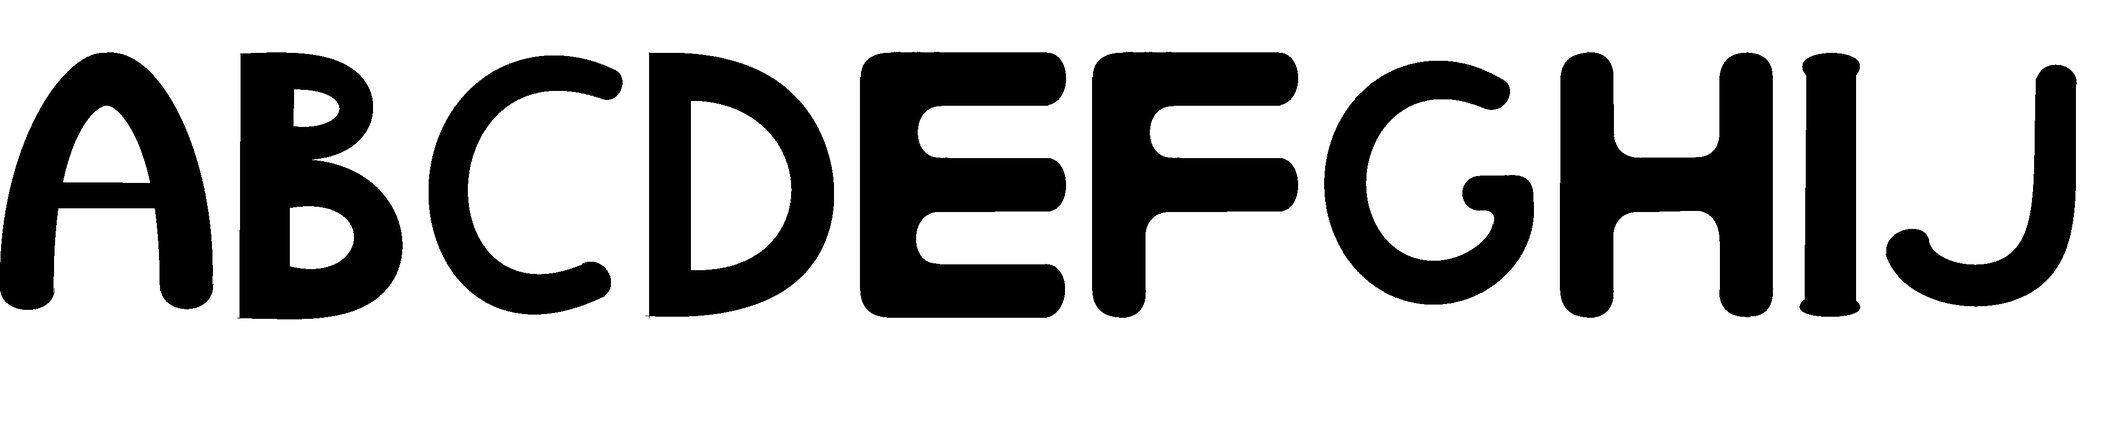
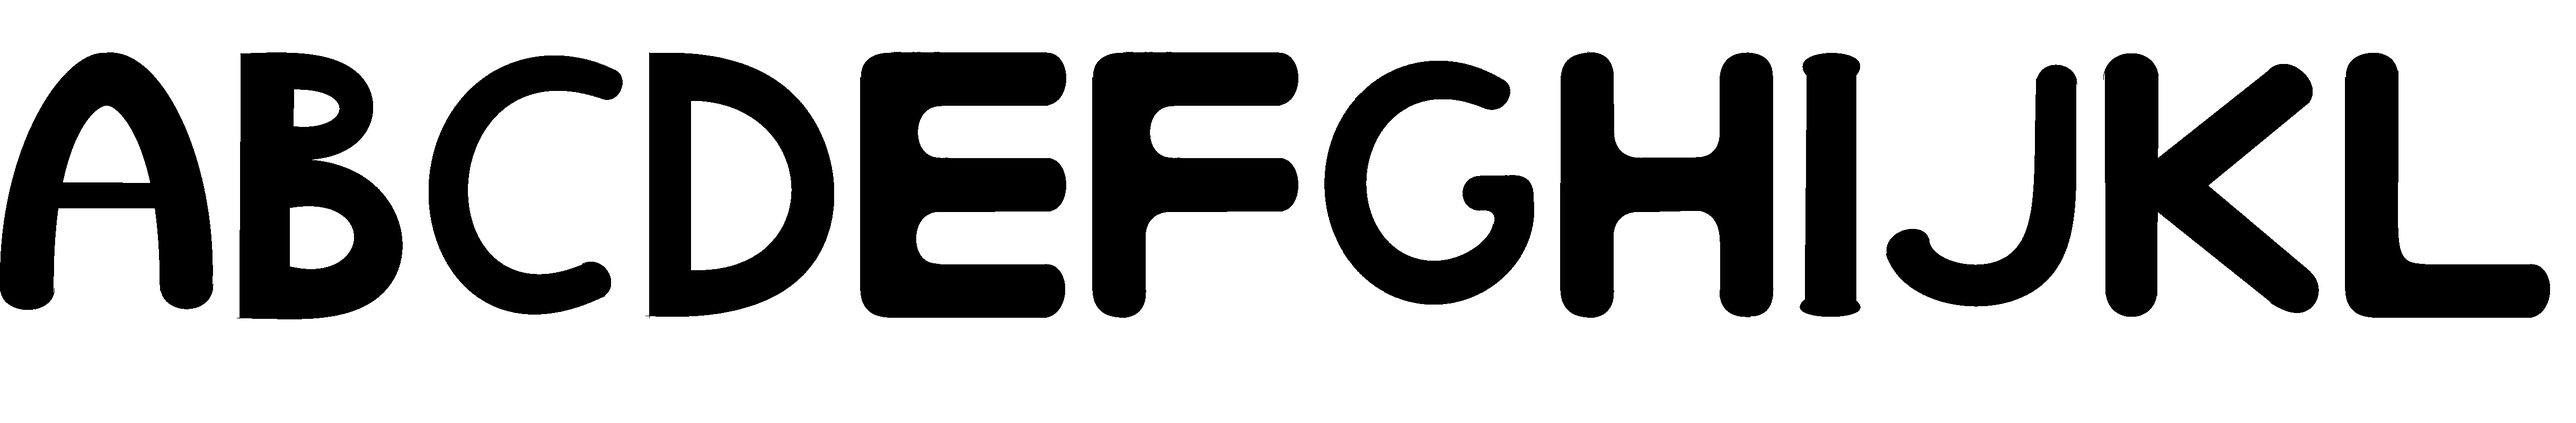
K, L i uppercase

Changed region(s): [[0.0, 0.125, 0.9997, 0.7812], [0.0, 0.5, 0.0312, 0.7188]]

diff --git a/AN/Bezier/bezierTyper.py b/AN/Bezier/bezierTyper.py
@@ -93,6 +93,7 @@ def main():
   argparser.add_argument("-bg", "--background", type=str, default="white")
   argparser.add_argument("-o", "--output", type=str, default="./napis.png")
   argparser.add_argument("-i", "--italic", type=bool, default=False)
+  argparser.add_argument("-u", "--uppercase", type=bool, default=True)
 
   args = argparser.parse_args()
   
@@ -105,7 +106,9 @@ def main():
   color = args.color
   background = args.background
 
-  text = text.upper()
+  if args.uppercase:
+    text = text.upper()
+
   letters = dict()
   if args.italic:
     total_width += 60*len(text)

diff --git a/AN/Bezier/README.md b/AN/Bezier/README.md
@@ -1,22 +1,30 @@
 # Konkurs 2
+
 ### Rafał Leja
 
 # bezierPaint
+
 ## program do tworzenia czcionek za pomocą krzywych Beziera
+
 Obsługa programu:
- - aby dodać punkty, zaznacz opcje "Dodaj punkt" paska narzędzi po prawej stronie, i kliknij dowolne miejsce na plótnie
- - przesuwanie, duplikowanie i usuwanie punktów działa analogicznie, program wybierze punkt znajdujący się najbliżej miejsca które klikniesz
- - możesz dodawać nowe krzywe, oraz zmieniać nazwy (pamiętaj że nie może być dwóch krzywych o tej samej nazwie)
- - z górnego paska narzędzi w menu "Edytuj" możesz znaleźć opcje takie jak siatka, kursywa czy łączenie krzywych
- - w menu "Plik" możesz zapisać lub wczytać postęp 
+
+- aby dodać punkty, zaznacz opcje "Dodaj punkt" paska narzędzi po prawej stronie, i kliknij dowolne miejsce na plótnie
+- przesuwanie, duplikowanie i usuwanie punktów działa analogicznie, program wybierze punkt znajdujący się najbliżej miejsca które klikniesz
+- możesz dodawać nowe krzywe, oraz zmieniać nazwy (pamiętaj że nie może być dwóch krzywych o tej samej nazwie)
+- z górnego paska narzędzi w menu "Edytuj" możesz znaleźć opcje takie jak siatka, tło, kursywa czy łączenie krzywych
+- w menu "Plik" możesz zapisać lub wczytać postęp
 
 # bezierTyper
+
 ## program do tworzenia napisów korzystających z czcionek wykonanych w bezierPaint
+
 Specyfikacja czcionki:
- - litery muszą być zapisane w formacie obsługiwanym przez bezierPaint
- - każda litera musi być zapisana w pliku o konkretnej nazwie, np. litera "A" w pliku A.txt
- - wszytkie litery muszą być zapisane w jednym folderze
+
+- litery muszą być zapisane w formacie obsługiwanym przez bezierPaint
+- każda litera musi być zapisana w pliku o konkretnej nazwie, np. litera "A" w pliku A.txt
+- wszytkie litery muszą być zapisane w jednym folderze
 
 Obsługa programu:
- - program jest obsługiwany argumentami polecenia z konsoli
- 
+
+- program jest obsługiwany argumentami polecenia z konsoli
+- aby wyświetlić możliwe argumenty użyj argumentu -h
